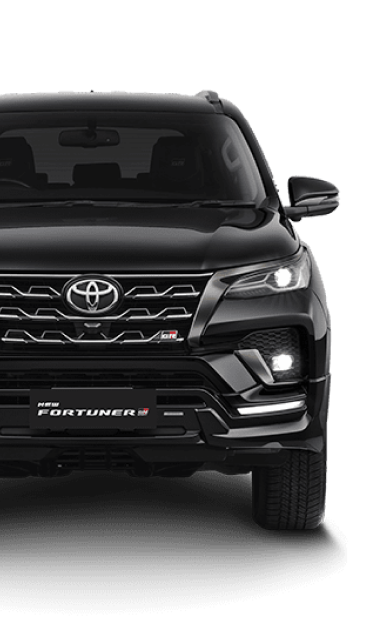
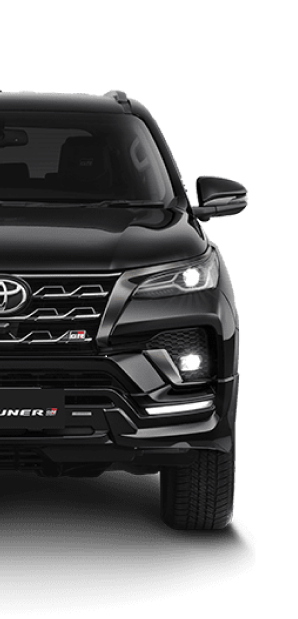
updates in home page + instructions page fix

diff --git a/flutter_with_wikitude/lib/views/introduction_page.dart b/flutter_with_wikitude/lib/views/introduction_page.dart
@@ -9,7 +9,7 @@ class IntroPage extends StatelessWidget {
   Widget build(BuildContext context) {
     return IntroductionScreen(
       globalBackgroundColor: Colors.white,
-      pages: [
+      rawPages: [
         CustomPageView(context, "A step by step guide to maintain your car."),
         CustomPageView(context,
             "Replace the paper-based manuals through following instructions overlaid onto your screen.")
@@ -38,47 +38,41 @@ class IntroPage extends StatelessWidget {
     );
   }
 
-  PageViewModel CustomPageView(BuildContext context, String text) {
-    return PageViewModel(
-      title: "",
-      bodyWidget: FittedBox(
-        child: Row(
-          mainAxisAlignment: MainAxisAlignment.spaceBetween,
-          children: [
-            Image(
-              image: const AssetImage("assets/images/car_left.png"),
-              alignment: Alignment.centerLeft,
-              height: MediaQuery.of(context).size.height,
+  Widget CustomPageView(BuildContext context, String text) {
+    return Container(
+      child: Row(
+        mainAxisAlignment: MainAxisAlignment.spaceBetween,
+        children: [
+          Image(
+            image: const AssetImage("assets/images/car_left.png"),
+            alignment: Alignment.centerLeft,
+            height: MediaQuery.of(context).size.height,
+          ),
+          FittedBox(
+            // padding: const EdgeInsets.all(11.0),
+            child: Container(
+              width: MediaQuery.of(context).size.width / 3,
+              child: Column(
+                  crossAxisAlignment: CrossAxisAlignment.start,
+                  children: [
+                    Text("ARabeitak",
+                        style: TextStyle(
+                          fontSize: MediaQuery.of(context).size.height / 21,
+                          fontWeight: FontWeight.w600,
+                        )),
+                    Text(text,
+                        style: TextStyle(
+                          fontSize: MediaQuery.of(context).size.height / 27,
+                        )),
+                  ]),
             ),
-            Padding(
-              padding: const EdgeInsets.all(11.0),
-              child: Container(
-                width: MediaQuery.of(context).size.width / 3,
-                child: Column(
-                    crossAxisAlignment: CrossAxisAlignment.start,
-                    children: [
-                      Text("ARabeitak",
-                          style: TextStyle(
-                            fontSize: MediaQuery.of(context).size.height / 21,
-                            fontWeight: FontWeight.w600,
-                          )),
-                      Text(text,
-                          style: TextStyle(
-                            fontSize: MediaQuery.of(context).size.height / 27,
-                          )),
-                    ]),
-              ),
-            ),
-            Image(
-              image: const AssetImage("assets/images/car_right.png"),
-              alignment: Alignment.centerRight,
-              height: MediaQuery.of(context).size.height,
-            ),
-          ],
-        ),
-      ),
-      decoration: const PageDecoration(
-        pageColor: Colors.white,
+          ),
+          Image(
+            image: const AssetImage("assets/images/car_right.png"),
+            alignment: Alignment.centerRight,
+            height: MediaQuery.of(context).size.height,
+          ),
+        ],
       ),
     );
   }

diff --git a/flutter_with_wikitude/lib/views/home_page.dart b/flutter_with_wikitude/lib/views/home_page.dart
@@ -7,22 +7,54 @@ class HomePage extends StatelessWidget {
   @override
   Widget build(BuildContext context) {
     return Scaffold(
-      appBar: AppBar(title: const Text("Arabeitak"),),
+      appBar: AppBar(
+        // title: const Text("ARabeitak", style: TextStyle(color: Colors.black)),
+        backgroundColor: Colors.transparent,
+        shadowColor: Colors.transparent,
+        leading: const BackButton(
+          color: Colors.black,
+        ),
+      ),
       body: SafeArea(
-        child: Center(
-          child: Column(
-            crossAxisAlignment: CrossAxisAlignment.center,
-            mainAxisAlignment: MainAxisAlignment.center,
-            children: [
-              const Text("Welcome!"),
-              ElevatedButton(
-                child: const Text("Start"),
-                onPressed: () {
-                  GoRouter.of(context).push('/ar/intro_page');
-                },
-              ),
-            ],
-          ),
+        child: Row(
+          children: [
+            Image(
+              image: const AssetImage("assets/images/car.png"),
+              alignment: Alignment.centerRight,
+              height: MediaQuery.of(context).size.height,
+            ),
+            Column(
+              children: [
+                //     Expanded(
+                //       child: Container(
+                //         color: Colors.amber,
+                //         child: Text('Above'),
+                //       ),
+                //     ),
+                //     const Divider(
+                //       height: 20,
+                //       thickness: 5,
+                //       indent: 20,
+                //       endIndent: 0,
+                //       color: Colors.black,
+                //     ),
+                ElevatedButton(
+                  child: Row(
+                    children: [
+                      const Text("Start"),
+                      // Icon(Image.asset(
+                      //   "assets/images/car.png",
+                      //   color: Colors.grey,
+                      // )),
+                    ],
+                  ),
+                  onPressed: () {
+                    GoRouter.of(context).push('/ar/intro_page');
+                  },
+                ),
+              ],
+            ),
+          ],
         ),
       ),
     );

diff --git a/flutter_with_wikitude/lib/views/ar/ar_intro_page.dart b/flutter_with_wikitude/lib/views/ar/ar_intro_page.dart
@@ -20,7 +20,14 @@ class _ARIntroPageState extends State<ARIntroPage> {
   @override
   Widget build(BuildContext context) {
     return Scaffold(
-      appBar: AppBar(),
+      appBar: AppBar(
+        // title: const Text("ARabeitak", style: TextStyle(color: Colors.black)),
+        backgroundColor: Colors.transparent,
+        shadowColor: Colors.transparent,
+        leading: const BackButton(
+          color: Colors.black,
+        ),
+      ),
       body: SafeArea(
         child: Center(
           child: Column(
@@ -29,6 +36,9 @@ class _ARIntroPageState extends State<ARIntroPage> {
             children: [
               !_isLoading
                   ? ElevatedButton(
+                      style: ButtonStyle(
+                          backgroundColor:
+                              MaterialStateProperty.all(Colors.black)),
                       onPressed: () async {
                         setState(() {
                           _isLoading = true;
